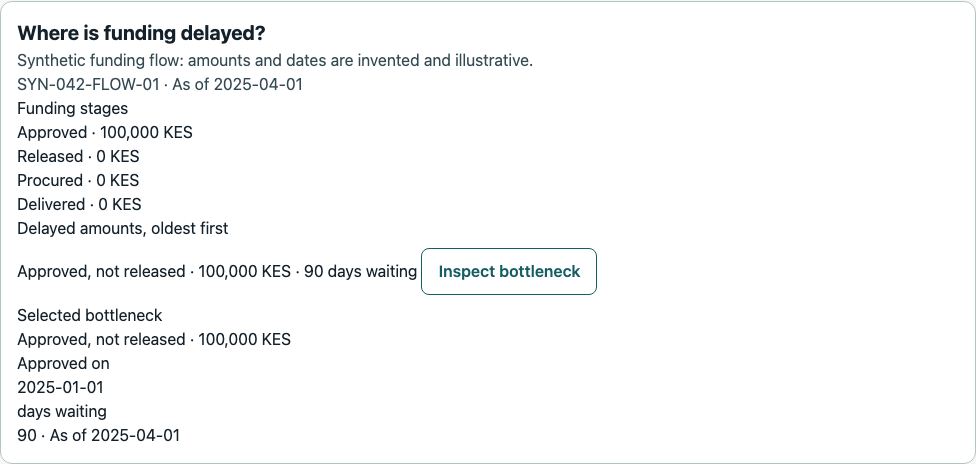
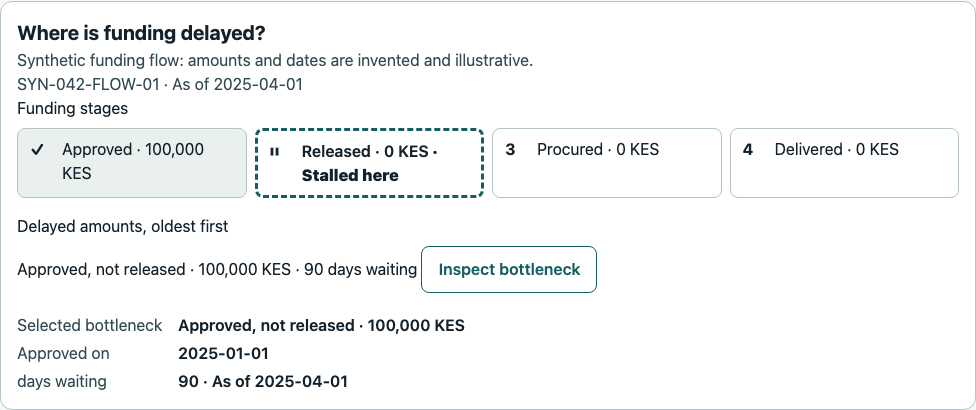
docs: final Phase 3 pass with screenshots, review list and checklist

diff --git a/docs/phases/3.md b/docs/phases/3.md
@@ -67,3 +67,234 @@ The ranked-fix panel now builds one synthetic transfer (10 KES) and one emergenc
 The facility map and panel add “Already short before the shock” for facilities in the run's pre-shock or no-shock stockouts, so Critical at 0% is explained. The Swahili label (`alreadyShort`) and the legend's horizon note need native-speaker review.
 
 Map cluster labels use short status names (`shortCritical` “Crit”/“Hatari”, `shortWatch`, `shortStable`, `shortUnknown` “Unk”/“Haij.”); the Swahili abbreviations and the cluster screen-reader text need native-speaker review.
+
+### Swahili strings for native-speaker review
+
+No Swahili text in the interface has been reviewed by a native speaker. Every entry below needs review; placeholders such as `${...}` are filled from the configured values. Generated from `apps/web/src/preferences/preferences.tsx` and `apps/web/src/risk/risk.ts` on 2026-11-08.
+
+| Key | English | Swahili |
+| --- | --- | --- |
+| `overviewTitle` | Where would you act first? | Ungechukua hatua wapi kwanza? |
+| `overviewLead` | Rehearse a supply shock using synthetic examples. | Fanya mazoezi ya mshtuko wa usambazaji kwa mifano iliyobuniwa. |
+| `overview` | Overview | Muhtasari |
+| `navKisumu` | Kisumu | Kisumu |
+| `navFunding` | Funding trace | Ufuatiliaji wa ufadhili |
+| `navCapture` | Bin-card capture | Kunasa kadi ya akiba |
+| `navPrimary` | Primary | Urambazaji mkuu |
+| `navMobile` | Primary (mobile) | Urambazaji mkuu (simu) |
+| `kenya` | Kenya · County planning workspace | Kenya · Eneo la kupanga la kaunti |
+| `banner` | Synthetic demo data · Calibrated to public aggregates · Results are illustrative, not validated. | Data za majaribio zilizobuniwa · Zimepimwa kwa takwimu za jumla za umma · Matokeo ni ya mfano na hayajathibitishwa. |
+| `syntheticNote` | Synthetic examples only. Illustrative and unvalidated. | Mifano iliyobuniwa pekee. Matokeo ni ya mfano na hayajathibitishwa. |
+| `gridTitle` | Kenya counties | Kaunti za Kenya |
+| `gridDescription` | Schematic, not to scale. Select a county for planning information. | Mchoro wa mfano, si kwa kipimo halisi. Chagua kaunti kuona taarifa za mipango. |
+| `gridLabel` | Schematic county grid | Mchoro wa kaunti |
+| `planningOverview` | County planning overview | Muhtasari wa mipango ya kaunti |
+| `county` | county | kaunti |
+| `openMap` | Open schematic map | Fungua mchoro wa kaunti |
+| `mapTitle` | Schematic county map | Mchoro wa kaunti |
+| `closeMap` | Close map | Funga mchoro |
+| `countyList` | County list | Orodha ya kaunti |
+| `search` | Search counties | Tafuta kaunti |
+| `empty` | No counties match these filters. | Hakuna kaunti zinazolingana na vichujio hivi. |
+| `selectCounty` | Select a county to inspect its synthetic planning information. | Chagua kaunti kuona taarifa zake za mipango zilizobuniwa. |
+| `pilot` | Kisumu is the synthetic facility pilot. | Kisumu ni eneo la majaribio ya vituo vilivyobuniwa. |
+| `exploreKisumu` | Explore Kisumu pilot | Chunguza majaribio ya Kisumu |
+| `planningOnly` | Planning overview only; facility simulation is not available. | Muhtasari wa mipango pekee; uigaji wa vituo haupatikani. |
+| `unavailable` | County planning data is unavailable. | Data za mipango ya kaunti hazipatikani. |
+| `partial` | Some county planning inputs are unavailable. | Baadhi ya data za mipango ya kaunti hazipatikani. |
+| `loading` | Loading synthetic county planning data… | Inapakia data za mipango ya kaunti zilizobuniwa… |
+| `offline` | Offline. County names remain available; planning data may be unavailable. | Hakuna mtandao. Majina ya kaunti yanapatikana; data za mipango huenda zisipatikane. |
+| `retry` | Retry | Jaribu tena |
+| `approved` | Synthetic approved all-sector budget | Bajeti iliyoidhinishwa iliyobuniwa kwa sekta zote |
+| `released` | Synthetic release proxy | Makadirio yaliyobuniwa ya fedha zilizotolewa |
+| `demoRole` | Demo role | Jukumu la majaribio |
+| `nationalPlanner` | National planner | Mpangaji wa kitaifa |
+| `kisumuPlanner` | Kisumu planner | Mpangaji wa Kisumu |
+| `pharmacist` | Pharmacist | Mfamasia |
+| `facility` | Facility | Kituo |
+| `accessDenied` | You do not have access to this county overview. | Huna ruhusa ya kuona muhtasari huu wa kaunti. |
+| `sessionMissing` | Session unavailable. | Kipindi hakipatikani. |
+| `sessionExpired` | Session expired. | Kipindi kimeisha. |
+| `facilityLocationsSynthetic` | Facility locations are synthetic. | Maeneo ya vituo yamebuniwa. |
+| `openFacilityMap` | Open facility map | Fungua ramani ya vituo |
+| `facilityMapTitle` | Synthetic facility map | Ramani ya vituo vya mfano |
+| `facilityMapUnavailable` | Facility map unavailable; use the facility list. | Ramani ya vituo haipatikani; tumia orodha ya vituo. |
+| `facilityMapPartial` | Some synthetic facility coordinates are unavailable. | Baadhi ya kuratibu za vituo vilivyobuniwa hazipatikani. |
+| `mapTilesUnavailable` | Map tiles are unavailable; facility markers and the list remain available. | Mandhari ya ramani hayapatikani; alama na orodha ya vituo zinapatikana. |
+| `riskLegend` | Illustrative stockout risk | Hatari ya kuisha kwa bidhaa ya mfano |
+| `critical` | Critical | Hatari kubwa |
+| `watch` | Watch | Angalizo |
+| `stable` | Stable | Tulivu |
+| `unknown` | Unknown | Haijulikani |
+| `days` | days to stockout | siku hadi bidhaa iishe |
+| `noStockout` | No stockout within the run horizon | Hakuna bidhaa inayoisha ndani ya kipindi cha uigaji |
+| `noRiskData` | No forecast or run is available | Hakuna utabiri au uigaji unaopatikana |
+| `drivers` | Driving commodities | Bidhaa zinazoamua hali |
+| `kisumuTitle` | Kisumu synthetic pilot | Majaribio yaliyobuniwa ya Kisumu |
+| `shockLabel` | Donor logistics support reduction | Kupungua kwa msaada wa usafirishaji wa wafadhili |
+| `baseline` | No-shock baseline | Msingi bila mshtuko |
+| `scenarioRunning` | Running illustrative scenario… | Inaendesha uigaji wa mfano… |
+| `scenarioError` | Scenario unavailable. Try again. | Uigaji haupatikani. Jaribu tena. |
+| `previousRun` | Previous run; updated results are pending. | Uigaji uliopita; matokeo mapya yanasubiriwa. |
+| `facilities` | Synthetic facilities | Vituo vilivyobuniwa |
+| `subcounty` | Sub-county | Kaunti ndogo |
+| `allSubcounties` | All sub-counties | Kaunti ndogo zote |
+| `selectFacility` | Select a synthetic facility to see its risk. | Chagua kituo kilichobuniwa kuona hatari yake. |
+| `shockFirst` | Shock-caused stockout order | Mfuatano wa kuisha kwa bidhaa kutokana na mshtuko |
+| `alreadyShort` | Already short before the shock | Tayari ilikuwa na upungufu kabla ya mshtuko |
+| `alreadyShortCount` | already short before the shock | tayari vilikuwa na upungufu kabla ya mshtuko |
+| `summaryFacilities` | facilities | vituo |
+| `clusterFacilities` | synthetic facilities | vituo vya mfano |
+| `clusterWorst` | worst status | hali mbaya zaidi |
+| `shortCritical` | Crit | Hatari |
+| `shortWatch` | Watch | Angalizo |
+| `shortStable` | Stable | Tulivu |
+| `shortUnknown` | Unk | Haij. |
+| `clusterZoom` | Press Enter to zoom in. | Bonyeza Enter ili kukuza. |
+| `summaryShock` | shock | mshtuko |
+| `summaryStockouts` | stockouts | matukio ya kuisha kwa bidhaa |
+| `summaryVs` | vs | ikilinganishwa na |
+| `summaryNoShock` | with no shock | bila mshtuko |
+| `summaryCaused` | caused by the shock | yamesababishwa na mshtuko |
+| `summaryFirst` | First | Ya kwanza |
+| `summaryOnDay` | on day | siku ya |
+| `summaryMost` | Most | Mengi zaidi |
+| `summaryDays` | days | siku |
+| `showAllPrefix` | Show all | Onyesha yote |
+| `showAllSuffix` | shock-caused stockouts in order | ya kuisha kwa bidhaa kutokana na mshtuko kwa mpangilio |
+| `fundingTitle` | Where is funding delayed? | Ufadhili umechelewa wapi? |
+| `fundingNote` | Synthetic funding flow: amounts and dates are invented and illustrative. | Mtiririko wa ufadhili wa mfano: kiasi na tarehe ni za kubuni na za mfano. |
+| `fundingStages` | Funding stages | Hatua za ufadhili |
+| `stageApproved` | Approved | Imeidhinishwa |
+| `stageReleased` | Released | Imetolewa |
+| `stageProcured` | Procured | Imenunuliwa |
+| `stageDelivered` | Delivered | Imewasilishwa |
+| `fundingStalledHere` | Stalled here | Imekwama hapa |
+| `fundingAgeing` | Delayed amounts, oldest first | Kiasi kilichochelewa, cha zamani kwanza |
+| `fundingAsOf` | As of | Hadi tarehe |
+| `fundingApprovedOn` | Approved on | Iliidhinishwa tarehe |
+| `approved_not_released` | Approved, not released | Imeidhinishwa, haijatolewa |
+| `released_not_procured` | Released, not procured | Imetolewa, haijanunuliwa |
+| `procured_not_delivered` | Procured, not delivered | Imenunuliwa, haijawasilishwa |
+| `fundingStageUnknown` | Unrecognized stage | Hatua isiyotambulika |
+| `fundingInspect` | Inspect bottleneck | Kagua kizuizi |
+| `fundingAge` | days waiting | siku za kusubiri |
+| `fundingDetail` | Selected bottleneck | Kizuizi kilichochaguliwa |
+| `fundingLoading` | Tracing funding stages… | Inafuatilia hatua za ufadhili… |
+| `fundingError` | Funding trace unavailable. Try again. | Ufuatiliaji wa ufadhili haupatikani. Jaribu tena. |
+| `fundingRetry` | Try again | Jaribu tena |
+| `fundingEmpty` | No delayed flows in this synthetic view. | Hakuna mtiririko uliochelewa katika mwonekano huu wa mfano. |
+| `fundingOffline` | Showing saved funding summary. | Inaonyesha muhtasari wa ufadhili uliohifadhiwa. |
+| `captureTitle` | Capture a bin card | Nasa kadi ya akiba |
+| `captureNote` | Synthetic bin cards only. Upload needs a connection, and nothing is saved until you confirm every field. | Kadi za akiba za mfano pekee. Kupakia kunahitaji mtandao, na hakuna kinachohifadhiwa hadi uthibitishe kila sehemu. |
+| `captureOffline` | Go online to upload a bin card. | Unganisha mtandao ili kupakia kadi ya akiba. |
+| `captureAttest` | This is a synthetic bin card with no real patient or facility data. | Hii ni kadi ya akiba ya mfano isiyo na taarifa halisi za mgonjwa au kituo. |
+| `capturePhoto` | Bin-card photo (PNG, JPEG or WebP, up to 5 MB) | Picha ya kadi ya akiba (PNG, JPEG au WebP, hadi MB 5) |
+| `captureType` | Use a PNG, JPEG or WebP image. | Tumia picha ya PNG, JPEG au WebP. |
+| `captureSize` | The image is larger than 5 MB. | Picha ni kubwa kuliko MB 5. |
+| `captureEmpty` | Add a clear photo of one bin card. | Ongeza picha wazi ya kadi moja ya akiba. |
+| `captureRead` | Read the card | Soma kadi |
+| `captureReading` | Reading the card… | Inasoma kadi… |
+| `captureError` | We could not read this image. Retake the photo and try again. | Hatukuweza kusoma picha hii. Piga picha tena ujaribu. |
+| `captureManual` | Automatic reading is unavailable. Type each of the four fields from the photo. | Usomaji wa kiotomatiki haupatikani. Andika kila moja ya sehemu nne kutoka kwenye picha. |
+| `capturePartial` | Some fields were unclear. Check the highlighted values. | Baadhi ya sehemu hazikuwa wazi. Kagua thamani zilizoangaziwa. |
+| `captureCheck` | Check every value against the photo. | Linganisha kila thamani na picha. |
+| `capturePreviewAlt` | Your bin-card photo | Picha yako ya kadi ya akiba |
+| `captureCommodity` | Commodity name | Jina la bidhaa |
+| `captureOpening` | Opening balance (units) | Salio la mwanzo (vipimo) |
+| `captureClosing` | Closing balance (units) | Salio la mwisho (vipimo) |
+| `captureDate` | Record date | Tarehe ya rekodi |
+| `captureReview` | Review and save | Kagua na uhifadhi |
+| `captureIncomplete` | Fill in all four fields to continue. | Jaza sehemu zote nne ili kuendelea. |
+| `captureConfirmPrompt` | Review every field against the photo. Save these values to this synthetic facility? | Linganisha kila sehemu na picha. Hifadhi thamani hizi kwa kituo hiki cha mfano? |
+| `captureGoBack` | Go back | Rudi |
+| `captureConfirm` | Confirm and save | Thibitisha na uhifadhi |
+| `captureSaving` | Saving… | Inahifadhi… |
+| `captureSaveError` | Could not save these values. Check them and try again. | Haikuwezekana kuhifadhi thamani hizi. Zikague ujaribu tena. |
+| `captureSaved` | Saved to this synthetic facility: | Imehifadhiwa kwa kituo hiki cha mfano: |
+| `tourStart` | Try the 3-minute demo | Jaribu onyesho la dakika 3 |
+| `tourLabel` | Guided demo | Onyesho la kuongozwa |
+| `tourStep` | Step | Hatua |
+| `tourBack` | Back | Rudi |
+| `tourNext` | Next step | Hatua inayofuata |
+| `tourFinish` | Finish demo | Maliza onyesho |
+| `tourExit` | Exit demo | Toka kwenye onyesho |
+| `tour_overview_title` | National overview | Muhtasari wa kitaifa |
+| `tour_overview_text` | All 47 counties on a schematic grid with illustrative risk. Every number is synthetic. | Kaunti zote 47 kwenye gridi ya mchoro yenye hatari ya mfano. Kila nambari ni ya kubuni. |
+| `tour_kisumu_title` | Kisumu pilot | Majaribio ya Kisumu |
+| `tour_kisumu_text` | Forty invented facilities on synthetic map locations, each with a non-color risk symbol. | Vituo arobaini vya kubuni kwenye maeneo ya ramani ya mfano, kila kimoja na alama ya hatari isiyotegemea rangi. |
+| `tour_shock_title` | Apply a 40% shock | Weka mshtuko wa 40% |
+| `tour_shock_text` | Donor logistics support drops by 40%. The illustrative model reruns the county. | Msaada wa usafirishaji wa wafadhili unapungua kwa 40%. Mfano unaendeshwa upya kwa kaunti. |
+| `tour_stockout_title` | First stockout | Bidhaa ya kwanza kuisha |
+| `tour_stockout_text` | The order in which items run out because of the shock. The first one is where to act. | Mfuatano wa bidhaa kuisha kutokana na mshtuko. Ya kwanza ndipo pa kuchukua hatua. |
+| `tour_funding_title` | Funding trace | Ufuatiliaji wa ufadhili |
+| `tour_funding_text` | Money approved but not yet released, aged in days for one synthetic flow. | Pesa zilizoidhinishwa lakini bado hazijatolewa, kwa siku, kwa mtiririko mmoja wa mfano. |
+| `tour_rank_title` | Ranked fix | Hatua iliyopangwa |
+| `tour_rank_text` | OR-Tools picks the cheapest action within the budget. The explanation only restates its result. | OR-Tools huchagua hatua ya bei nafuu ndani ya bajeti. Maelezo yanarudia tu matokeo yake. |
+| `tour_capture_title` | Bin-card capture | Kunasa kadi ya akiba |
+| `tour_capture_text` | A facility in-charge uploads a bin-card photo and confirms every field before anything is saved. | Msimamizi wa kituo anapakia picha ya kadi ya akiba na kuthibitisha kila sehemu kabla ya kuhifadhi. |
+| `openingStock` | Synthetic opening stock | Akiba ya mwanzo iliyobuniwa |
+| `noStock` | No synthetic stock entries for this facility. | Hakuna taarifa za akiba zilizobuniwa kwa kituo hiki. |
+| `noShockStockouts` | No shock-caused stockouts in this illustrative run. | Hakuna bidhaa zilizoisha kutokana na mshtuko katika uigaji huu wa mfano. |
+| `doThisFirst` | Do this first | Fanya hili kwanza |
+| `rankIntro` | OR-Tools funds what most delays the earliest stockouts. Costs are illustrative. | OR-Tools hufadhili kinachochelewesha zaidi upungufu wa mapema. Gharama ni za mfano. |
+| `rankDetails` | How these options are built | Jinsi chaguo hizi zinavyoundwa |
+| `rankAssumptions` | Costs and benefits are illustrative assumptions, not validated impacts. | Gharama na manufaa ni makadirio ya mfano, si athari zilizothibitishwa. |
+| `rankCandidateAssumptions` | For each of the earliest shock-caused stockouts, a synthetic transfer and an emergency delivery use the same assumed quantity and arrival day, with illustrative costs of 10 KES and 50 KES. The optimizer maximizes modeled days deferred within the budget. | Kwa kila tukio la mapema la kuisha kwa bidhaa kutokana na mshtuko, uhamisho na uwasilishaji wa dharura wa mfano hutumia kiasi na siku ileile ya kuwasili, kwa gharama za mfano za KES 10 na KES 50. Mfumo huongeza siku za kuchelewa katika mfano ndani ya bajeti. |
+| `rankTransfer` | Redistribution transfer | Uhamisho wa bidhaa |
+| `rankEmergency` | Emergency delivery | Uwasilishaji wa dharura |
+| `rankTransferUnavailable` | No planted transfer matches these shock-caused stockouts; comparison is unavailable for this snapshot. | Uhamisho wa mfano haulengani na tatizo hili la kwanza; ulinganisho haupatikani kwa picha hii ya data. |
+| `rankEnglishOnly` | Explanation available in English only. | Maelezo yanapatikana kwa Kiingereza pekee. Explanation available in English only. |
+| `rankTargets` | Earliest shock-caused stockouts with a planted transfer | Matukio ya mapema ya kuisha kwa bidhaa yenye uhamisho wa mfano |
+| `rankRemainingBudget` | Not funded: it does not fit in the remaining budget. | Haikufadhiliwa: haitoshi ndani ya bajeti iliyobaki. |
+| `rankBudget` | Budget ceiling (KES) | Kikomo cha bajeti (KES) |
+| `rankAction` | Rank feasible actions | Panga hatua zinazowezekana |
+| `rankLoading` | Ranking feasible actions… | Inapanga hatua zinazowezekana… |
+| `rankOffline` | Offline. Go online to recalculate a ranking. | Hakuna mtandao. Unganisha tena ili kupanga hatua upya. |
+| `rankError` | Could not rank actions. Review the target and budget, then try again. | Haikuwezekana kupanga hatua. Kagua lengo na bajeti, kisha ujaribu tena. |
+| `rankUsed` | Budget used | Bajeti iliyotumika |
+| `rankRemaining` | Remaining budget | Bajeti iliyobaki |
+| `rankCutLine` | Budget cut line | Mstari wa kikomo cha bajeti |
+| `rankExplanation` | Plain-language explanation | Maelezo kwa lugha rahisi |
+| `rankNoExplanation` | Explanation unavailable. | Maelezo hayapatikani. |
+| `rankAlternative` | Another option for this stockout was selected. | Chaguo jingine la tatizo hili limechaguliwa. |
+| `rankOverBudget` | The assumed cost exceeds the ceiling. | Gharama inayokadiriwa inazidi kikomo. |
+| `rankDonorConflict` | The donor and recipient choices conflict. | Chaguo za kituo kinachotoa na kinachopokea zinakinzana. |
+| `rankInventory` | The shared synthetic inventory constraint would be exceeded. | Kikomo cha akiba ya pamoja ya mfano kingezidiwa. |
+| `rankNotSelected` | Not selected in the optimizer's best feasible set. | Haikuchaguliwa katika seti bora inayowezekana. |
+| `rankReasonUnavailable` | The exclusion reason is unavailable. | Sababu ya kutokuchaguliwa haipatikani. |
+| `rankSelected` | Selected by the optimizer | Imechaguliwa na mfumo wa upangaji |
+| `rankDeferred` | modeled days deferred | siku za kuchelewa katika mfano |
+| `rankDeferralUnavailable` | modeled deferral unavailable | kuchelewa katika mfano hakupatikani |
+| `rankCostNote` | Costs in KES are an illustrative assumption. | Gharama kwa KES ni makadirio ya mfano. |
+| `rankCutLineDetail` | actions above are selected; actions below are not. | hatua zilizo juu zimechaguliwa; zilizo chini hazijachaguliwa. |
+| `rankAboveCut` | Selected within the budget | Zilizochaguliwa ndani ya bajeti |
+| `rankBelowCut` | Not selected | Hazijachaguliwa |
+| `rankUnreachable` | No supplied option meets this synthetic target within the budget. | Hakuna chaguo lililotolewa linalofikia lengo hili la mfano ndani ya bajeti. |
+| `shockDetailsUnavailable` | Shock-caused stockout details are unavailable for this run. | Maelezo ya kuisha kwa akiba kutokana na mshtuko hayapatikani kwa jaribio hili. |
+| `overviewLoading` | Loading your overview… | Inapakia muhtasari wako… |
+| `overviewError` | Overview unavailable. Try again. | Muhtasari haupatikani. Jaribu tena. |
+| `skip` | Skip to content | Nenda kwenye maudhui |
+
+Risk legend (`riskLegend` in `apps/web/src/risk/risk.ts`):
+
+- Hatari kubwa: bidhaa imeisha au itaisha ndani ya siku ${RISK_THRESHOLDS.criticalDays}
+- Angalizo: siku ${RISK_THRESHOLDS.criticalDays + 1}–${RISK_THRESHOLDS.watchDays}
+- Tulivu: bidhaa haitaisha ndani ya siku ${RISK_THRESHOLDS.watchDays}
+- Haijulikani: hakuna utabiri au uigaji
+- Lebo zinahusiana na kipindi cha uigaji cha siku ${RISK_THRESHOLDS.horizonDays}. Viwango vilirekebishwa ili mfano huu wa kubuni usomeke; si kiwango rasmi.
+- Viwango ni vya mfano, si viwango vya kitabibu au kiutendaji.
+
+Also review: the optimizer explanation is English only; in Swahili mode the interface shows “Maelezo yanapatikana kwa Kiingereza pekee. Explanation available in English only.” and marks the paragraph `lang="en"`. The explanation templates listed above under “Explanation sentences for native-speaker review” have no Swahili version yet.
+
+### Checkpoint C review checklist
+
+- [ ] Run `bash scripts/demo-up.sh`, open `http://localhost:3300/`, and complete the guided demo by keyboard on a laptop and a phone.
+- [ ] At 0% the map counts read 2 Critical (both “Already short before the shock”), 0 Watch, 38 Stable; at 40% 10 / 18 / 12.
+- [ ] At 30 KES three transfers are funded and the fourth is excluded for the remaining budget; at 100 KES all four; at 5 KES none.
+- [ ] Funding trace shows the stage bar stalled at Released and the two-column detail.
+- [ ] Capture saves only after “Confirm and save”; empty fields can be typed by hand.
+- [ ] Every screen shows the synthetic-data notice; no output is presented as validated.
+- [ ] Swahili and dark theme read correctly; schedule the native-speaker review listed above.
+- [ ] Accept or reject the known gaps: four mobile destinations, no offline capture queue, funding slice only, tuned risk cutoffs.
+

diff --git a/README.md b/README.md
@@ -29,13 +29,13 @@ All screens show synthetic data; every number is illustrative and unvalidated.
 | | |
 | --- | --- |
 | ![National overview with the guided demo open](docs/screenshots/readme-overview-tour-1280.png) | ![Ranked fixes: funded transfers above the budget cut line, unfunded actions below it](docs/screenshots/readme-ranked-fix-1280.png) |
-| National overview with the guided demo (1280 px) | Ranked fix for the first shock-caused stockout |
-| ![Funding trace for a synthetic stalled release](docs/screenshots/readme-funding-trace-1280.png) | ![Shock card with the stockout summary](docs/screenshots/readme-first-stockout-1280.png) |
-| Funding trace: 100,000 KES approved, not released, 90 days | Shock summary at 40%: first stockout and busiest week |
+| National overview with the guided demo (1280 px) | Ranked fixes at 30 KES: three transfers funded, the fourth cut by the remaining budget |
+| ![Funding trace with the stalled stage marked](docs/screenshots/readme-funding-trace-1280.png) | ![Shock card with the stockout summary](docs/screenshots/readme-first-stockout-1280.png) |
+| Funding trace: stage bar stalled at Released; 100,000 KES approved, not released, 90 days | Shock summary at 40%: first stockout and busiest week |
+| ![Facility map at a 40% shock with clusters and counts](docs/screenshots/readme-map-40-1280.png) | ![Kisumu on a phone with the bottom navigation bar](docs/screenshots/readme-mobile-nav-390.png) |
+| Facility map at 40%: each cluster shows its status mix; the counts line gives 10 Critical, 18 Watch, 12 Stable | Kisumu at 390 px with the bottom navigation bar |
 | ![Guided demo on a phone](docs/screenshots/readme-tour-mobile-390.png) | ![Bin-card capture awaiting human confirmation](docs/screenshots/readme-capture-confirm-390.png) |
-| Guided demo at 390 px | Bin-card capture: nothing is saved until “Confirm and save” |
-| ![Kisumu facility map at a 40% shock with the risk legend](docs/screenshots/readme-map-40-1280.png) | |
-| Facility map at 40%: each cluster shows its status mix; the line under the legend gives 10 Critical, 18 Watch, 12 Stable | |
+| Guided demo at 390 px, above the bottom bar | Bin-card capture: nothing is saved until “Confirm and save” |
 
 ## Local quickstart
 
@@ -51,7 +51,7 @@ docker compose -f infra/compose.yaml exec -T api python -m dawa_api.ingestion.se
 bash scripts/demo-up.sh
 ```
 
-Open `http://localhost:3300/` and choose **Try the 3-minute demo**. When you are done:
+Open `http://localhost:3300/` and choose **Try the 3-minute demo**. Run the demo with `bash scripts/demo-up.sh`, not `npm run dev`: in development mode React mounts components twice, which can stall the guided demo's automatic rank on “Ranking feasible actions…”. When you are done:
 
 ```sh
 bash scripts/demo-down.sh
@@ -72,9 +72,9 @@ Start at `http://localhost:3300/` and press **Try the 3-minute demo**. Each step
 2. **Kisumu pilot (≈20 s).** “Kisumu is the only facility-level pilot: forty invented facilities at invented locations. With no shock, 38 are Stable; the two Critical ones are labeled ‘Already short before the shock’. Risk uses shape and text, not only color.”
 3. **Apply a 40% shock (≈20 s).** “Donor logistics support drops by 40% and the county model reruns: 10 facilities are now Critical, 18 Watch and 12 Stable.”
 4. **First stockout (≈30 s).** “A one-line summary: at 40%, 211 stockouts against 2 with no shock, 209 caused by the shock. The first is SYN-KE-042-F031 running out of SYN-C04 on day 41; the most fall in days 71–77. The full order is one click away. Act on the earliest first.”
-5. **Funding trace (≈30 s).** “One synthetic flow: 100,000 KES approved but not released, waiting 90 days.”
+5. **Funding trace (≈30 s).** “One synthetic flow: the stage bar shows money approved but stalled before release; 100,000 KES has waited 90 days.”
 6. **Ranked fix (≈40 s).** “For each of the four earliest shock-caused stockouts, OR-Tools compares a 10 KES transfer from a nearby facility with a 50 KES emergency delivery, maximizing modeled days deferred within a 30 KES ceiling. It funds three transfers; the fourth sits below the cut line because it no longer fits the remaining budget, and every emergency delivery costs more than the ceiling. Costs are assumptions, and the explanation only restates the optimizer's result.”
-7. **Bin-card capture (≈20 s).** “The facility in-charge uploads a synthetic bin-card photo. With no extraction provider configured locally, they type each value from the photo and must confirm before anything is saved.”
+7. **Bin-card capture (≈20 s).** “The facility in-charge uploads a synthetic bin-card photo. With no extraction provider configured locally, the fields come back empty, focus moves to the first one, and they type all four values from the photo. Nothing is saved until they confirm.”
 
 Press **Finish demo**. To show a different budget, change “Budget ceiling (KES)”: at 100 KES all four transfers are funded and each emergency delivery is excluded because a cheaper option covers the same stockout; at 5 KES nothing fits and every action is excluded as over the ceiling.
 
@@ -87,13 +87,14 @@ See [agent rules](AGENTS.md), [current progress](docs/PROGRESS.md), [design appr
 - **Synthetic and unvalidated.** All data is invented or calibrated only to public aggregates; forecasts, stockout days, deferrals and rankings are illustrative and have not been validated against real outcomes. Do not use them for operational decisions.
 - **Not a geographic map of counties.** The national view is a schematic 47-county grid because boundary data rights are unresolved. Kisumu facility locations are invented.
 - **Narrow ranking.** The ranked fix compares planted candidates for the four earliest shock-caused stockouts: one synthetic transfer and one emergency delivery each, with assumed costs (10 and 50 KES) and the same assumed quantity and arrival day. Candidates are not generated for other stockouts or other kinds of action.
-- **Funding trace is a slice.** One planted stalled-release flow with stage amounts and ageing. The partial-graph state, filters, stage diagram and a dedicated Funding page are not built.
-- **Capture is online only and unreviewed for extraction quality.** There is no offline queue. The local stack has no extraction provider, so fields are typed by hand; no real LLM provider has been exercised end to end.
+- **Funding trace is a slice.** One planted stalled-release flow with a four-step stage bar, amounts and ageing. The partial-graph state, filters and a dedicated Funding page are not built.
+- **Capture is online only and unreviewed for extraction quality.** There is no offline queue. The local stack has no extraction provider, so fields are typed by hand when extraction returns empty or partial values. If the upload itself fails, no capture record exists and manual entry cannot be offered; the user must retake or retry the photo. No real LLM provider has been exercised end to end.
 - **Language.** Swahili strings, and the English-only optimizer explanation, need native-speaker review.
 - **No production sign-in.** The demo uses a server-side proxy with a privileged synthetic token, allowed only in local or staging environments behind external access control.
 - **Risk cutoffs are tuned, not a standard.** Map labels use Critical within 45 days, Watch 46–52 and Stable beyond 52. These cutoffs were tuned to make this synthetic scenario readable, are relative to the 90-day simulation horizon, and are not a standard. A facility takes the status of its worst commodity.
-- **Map clusters group whole areas.** At county zoom, nearby facilities share one cluster labeled with its size and status mix (for example “6 · 2 Crit · 3 Watch · 1 Stable”) and the worst-status symbol. Groups merge until no two labels overlap, so on a phone most of the county can be one cluster; Enter or a click zooms in step by step until facilities separate. The counts line under the legend always gives the full split.
-- **Performance and design gaps.** The interactive Lighthouse flow meets its performance budget. Its layout shift ranged from 0.006 to 0.203 in earlier runs; the latest run, after the shock card change, measured 0.001, but one run does not show the issue is resolved. The flow is not in CI. Bottom navigation, several design states and screenshot review against the approved design are outstanding. See [progress](docs/PROGRESS.md) and [Phase 3 notes](docs/phases/3.md).
+- **Map clusters show a mix of statuses.** The invented facilities sit in clusters of five or six within about 300 m of each other, so at county zoom their markers would stack. The map therefore groups them into one cluster labeled with its size and status mix (for example “6 · 2 Crit · 2 Watch · 2 Stable”) and the worst-status symbol. Groups merge until no two labels overlap, so on a phone most of the county is one cluster; Enter or a click zooms in step by step until facilities separate. The counts line under the legend always gives the full split.
+- **Four mobile destinations, not five.** The phone bottom bar links Overview, Kisumu, Funding trace and Bin-card capture. The approved design's five destinations include Scenarios, Actions and Stock, which are not built yet.
+- **Performance and design gaps.** Lighthouse page load scores 1.00 for performance, accessibility and best practices on `/` and `/kisumu`; the interactive ranked flow scores 1.00 performance with layout shift 0.051 in the latest run (earlier runs ranged from 0.001 to 0.203). The flow is not in CI. Several design states and screenshot review against the approved design are outstanding. See [progress](docs/PROGRESS.md) and [Phase 3 notes](docs/phases/3.md).
 
 ## Next steps
 

diff --git a/docs/PROGRESS.md b/docs/PROGRESS.md
@@ -10,6 +10,8 @@ Gitleaks v8.30.1 via Docker scanned 113 commits across all refs and a copy of tr
 
 ## Phase 3: Frontend — current
 
+- Final pass, 2026-11-08. **Done and checked:** web Vitest 129, backend pytest 154 (one existing warning), lint, type-check, format, Ruff and `mypy dawa_api` all pass; fresh `demo-up.sh` session **Playwright 80/80** at four widths including the token canary, no 429s; Lighthouse page load `/` and `/kisumu` 1.00/1.00/1.00 (performance/accessibility/best practices); interactive ranked flow timespan performance 1.00, CLS 0.051, TBT 0 ms, INP 40 ms. Gitleaks v8.30.1 (Docker): 160 commits across all refs and a copy of 299 tracked and non-ignored files, no leaks. Commit history: one author/committer name, no co-author trailers, session links or tool mentions. README screenshots recaptured (now including the funding stage bar, phone bottom bar and clustered map), demo-script numbers checked against this session, limitations extended. Every Swahili string is listed for review in `docs/phases/3.md`. **Known harmless console message:** MapLibre logs “Worker failed to load. Check that the worker URL is correct.” while still rendering the map. **Cut today:** funding partial-graph state, filters and dedicated page; offline capture queue; Scenarios/Actions/Stock destinations. **Untested:** a real extraction provider; native-speaker Swahili review; CI on GitHub (nothing pushed); real phones; the guided demo under `npm run dev` (known StrictMode stall).
+
 - Phase 3 polish, 2026-11-08 (`5691195`…): (1) sidebar links to Overview, Kisumu, Funding trace and Bin-card capture with `aria-current`, and below 768 px a four-item bottom navigation (the guided-demo panel sits above it); the capture link (`/kisumu?view=capture`) opens the facility in-charge view, also on client-side navigation, and late-rendered targets scroll into view. The approved design's five mobile destinations (Scenarios, Actions, Stock) do not exist yet, so the bar maps today's four. (2) Funding trace: a four-step stage bar with completed stages ✓ and the stalled stage marked by ⏸, “Stalled here”, a dashed border and `aria-current="step"`; the bottleneck detail is a two-column grid. (3) Capture: empty or partial extraction moves focus to the first empty field once the fields are enabled; “Confirm and save” is the primary button. An upload that fails outright creates no capture record, which the backend requires for confirmation, so that case still asks for a retake. (4) Favicon (`app/icon.svg`, no failed icon requests). (5) New browser spec in Swahili + dark theme: guided demo to the ranked fix with the English-only explanation note and `lang="en"` kept, funding trace, capture via the navigation link through confirmation, clustered map counts and labels, all with axe; plus a favicon check. Fixes from these runs: the capture view now reacts to `?view=capture` without a remount; field focus waits for the review render; two map tests scroll the lazily loaded map into view first. Vitest 129 passed. **Playwright 80/80** at four widths after `demo-down.sh`/`demo-up.sh` (one run, with the canary, no 429s), then 76/76 without the canary after the test fixes. Lighthouse not rerun.
 
 - Phase 3 cluster labels, 2026-11-08: each cluster shows its size and non-zero status counts worst first with abbreviated names (“6 · 2 Crit · 3 Watch · 1 Stable”) plus the worst-status symbol; the accessible name starts with that text and adds “6 synthetic facilities: 2 Critical, 3 Watch, 1 Stable; worst status Critical. Press Enter to zoom in.” Pills wrap to two lines within 160 px. The first version overlapped labels (badly at 390 px), so grouping now merges groups whose centres are within one pill box (168 × 48 px) until none overlap, which keeps each invented area whole; side padding scales with map width (minimum 48/64 px); activating a cluster that fitting would barely zoom jumps two zoom levels; and focus stays on the same facility across any marker re-render (the mobile keyboard zoom had lost focus after a second re-render). Vitest 128 passed, including label counts summing to cluster size at 0/20/40/100% on the backend fixture runs, no two cluster centres within a pill box at four scales, and the zoom fallback. **Playwright 60/60** at four widths after `demo-down.sh`/`demo-up.sh`, then 56/56 again without the canary, no 429s; browser checks now also require each cluster's visible counts to sum to its size, no label overflow and no overlapping labels at every width and shock. At 40%: 390 px shows “35 · 9 Crit · 16 Watch · 10 Stable” and “5 · 1 Crit · 2 Watch · 2 Stable”; 1280 px shows five clusters. README map screenshot recaptured and limitation updated. Lighthouse not rerun.

diff --git a/CHANGELOG.md b/CHANGELOG.md
@@ -1,5 +1,7 @@
 # Changelog
 
+- Refreshed README screenshots, demo script and limitations; listed all Swahili strings for review and added a Checkpoint C checklist.
+
 - Added a favicon. Browser tests now cover the guided demo, funding trace, bin-card capture and clustered map in Swahili with the dark theme, including accessibility checks and the English-only note on the optimizer explanation.
 
 - Bin-card capture moves focus to the first empty field when extraction returns empty or partial values, and styles “Confirm and save” as the primary button.
